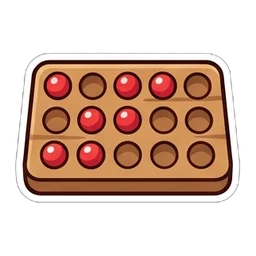
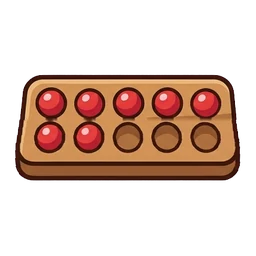
The three redrawn: make-ten board, Star Scepter, lantern
Drawn again on one fix-up sheet and cut with `cut_icons.py fixes`: the
board now has ten holes in two rows of five, seven of them filled, and
the scepter and the lantern are crisp, with no pink haze (no
magenta-like pixels left in any of the three). Their "redo" notes are
off, so docs/prompts.md says every icon is drawn.

The pictures keep their names; the service worker fetches files fresh
when online, so players get the new ones without a cache change.

diff --git a/docs/prompts.md b/docs/prompts.md
@@ -6,46 +6,6 @@
 > `out/all-prompts.md`. Edit the JSON and run `npm run icon-prompts`; changes made
 > here are overwritten.
 
-1. Start a new chat for each prompt, so one picture doesn't steer the next,
-   and paste the prompt in. Ask for the largest size offered (2K or 4K if
-   there's a choice): each icon is a small part of the picture.
-2. Attach a finished sheet and add "Match the style of the attached sheet
-   exactly." It keeps the icons looking like one game.
-3. Check the picture: separate icons, laid out as the prompt asks; a flat
-   magenta background with nothing touching the edges; no writing or
-   numbers; no pink, magenta or purple inside an icon (it would be cut away
-   with the background), nor a pink haze around a glowing thing or showing
-   through glass (the magenta mixed in; it stays pink); each icon what its
-   line asks for. If one icon is wrong, ask for just that one again: "Keep
-   everything else the same, but redraw the bottom-left icon as ..."
-4. Save it under the name given above its prompt. Sheets are source
-   material and stay out of git.
-5. Cut it: `python tools/cut_icons.py <its name>`, such as
-   `python tools/cut_icons.py chapters-k` or `python tools/cut_icons.py
-   fixes`. Look at `out/icons.html` to check the icons, then run
-   `npm run pwa` so the game keeps them for playing offline.
-
-## To draw again
-
-### Fix-up sheet: `assets/treasures/sheets/fixes.png`
-
-Three icons that came out wrong, drawn together so the sheets they came from stay as they are:
-
-- Make-Ten Board (from chapters-k): The board came out with three rows of six holes, not two rows of five.
-- Star Scepter (from chapters-5): A pink haze around the star: its glow was painted over the magenta.
-- Lantern of Lost Things (from keepsakes-9): Pink glass and a pink haze: its glow was painted over the magenta.
-
-Attach the sheets chapters-k, chapters-5 and keepsakes-9, from `assets/treasures/sheets/`, so they match. Then `python tools/cut_icons.py fixes` replaces just these. Once they're right, take the `"redo"` off them in `tools/icon_sheets.json`, delete `fixes.png`, and run `npm run icon-prompts`.
-
-```text
-Make one wide picture, 16:9, at the highest resolution you can. It holds three separate icons for a cute 2D fantasy math game for children, side by side in one row, evenly spaced. Each icon sits alone in the middle of its own part of the picture, with a wide margin of empty background all around it. No icon touches another icon or the edge of the picture, and nothing overlaps.
-
-The background is one flat, solid, pure magenta (#FF00FF), edge to edge. No gradient, texture, floor, cast shadow, glow, grid lines, borders, frames, panels or labels. The magenta will be cut away, so don't use magenta, hot pink or bright purple anywhere in the icons, and keep every icon's edge crisp, with no glow or haze spilling around it.
-
-All of them share one style, matching a game whose characters are chunky, cute chibi cartoon stickers: bold, clean, near-black outlines of even thickness around every shape, and bright, warm colors with simple cel shading (one shadow tone and one crisp white highlight). About icons 1 and 2: They are rare, precious treasures from a storybook adventure, each a single object standing upright on its own, seen from the front or a slight three-quarter view, with a small sparkle of shine on metal and gems. About icon 3: They are playful magical keepsakes, a little silly, each a single object on its own, seen from the front or a slight three-quarter view, with a small sparkle of shine on metal and gems. Each icon fills about two thirds of its space. No text, letters or numbers anywhere: where a design has marks, they are dots, ticks or shapes. Objects don't have faces, and animals and people appear only where they are described.
-
-The three icons, left to right:
-1. Left: A little wooden board with exactly ten round holes, in two rows of five, like a ten frame: seven holes hold red marbles and three are empty. Made of painted wood and bright, glossy enamel, like precious toys.
-2. Middle: A tall, grand gold scepter topped with a big bright gold star, crisp-edged, with no glow around it. Made of deep midnight-blue enamel and gold, scattered with tiny gold stars.
-3. Right: An old brass lantern with a yellow flame behind solid amber glass that you can't see through, and no glow around it.
-```
+Every icon is drawn. To have one drawn again, give it a `"redo"` in
+`tools/icon_sheets.json` saying what's wrong with it; to add icons, add a
+sheet of nine. Then run `npm run icon-prompts`.
